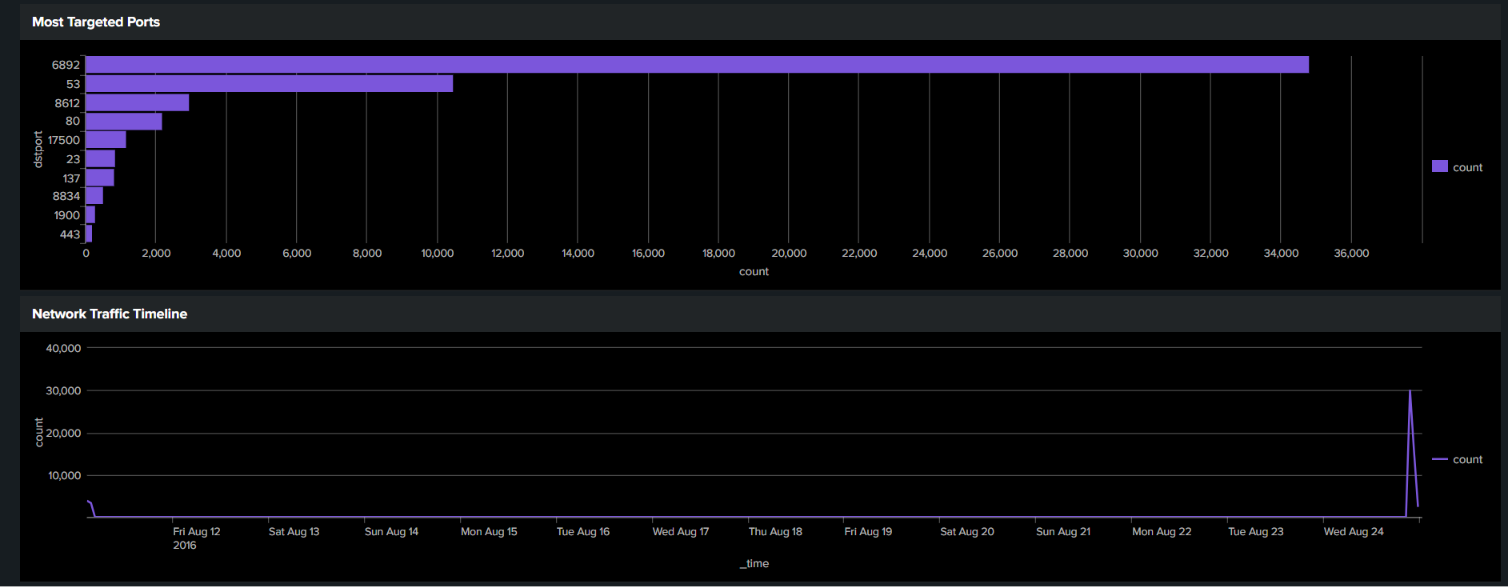
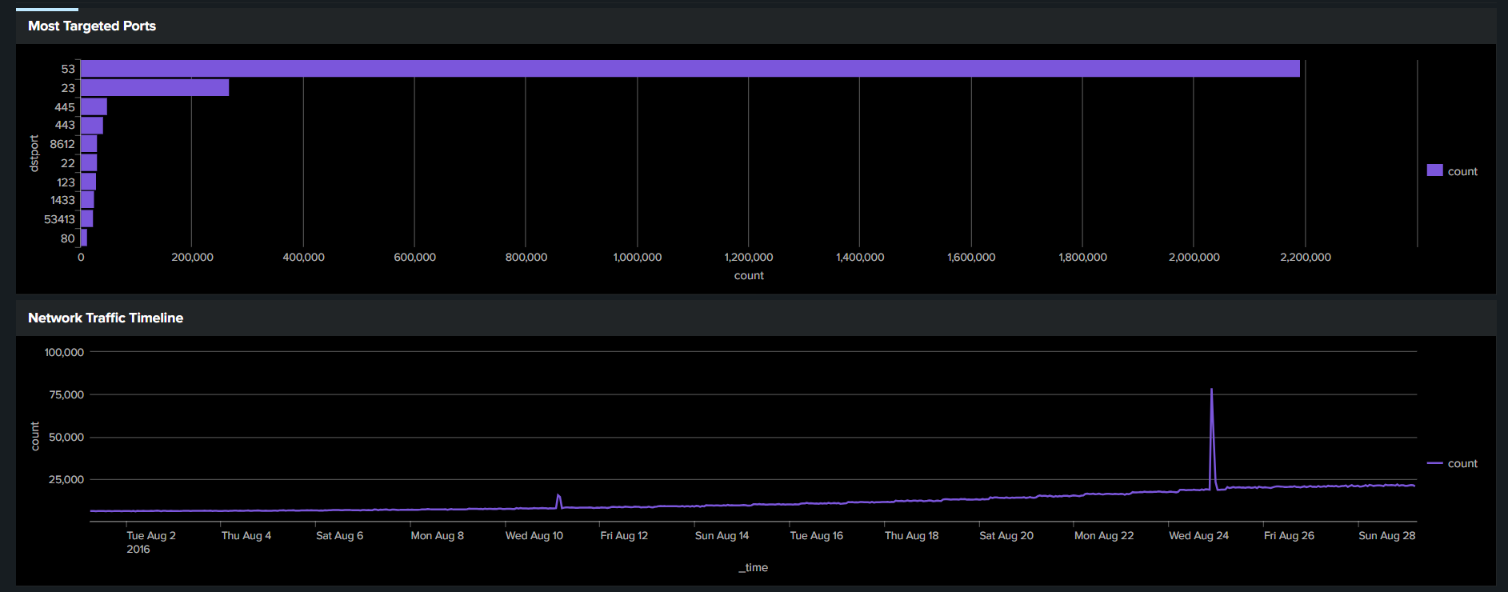
some addon on firewall writeup

diff --git a/Firewall-Monitoring/README.md b/Firewall-Monitoring/README.md
@@ -2,197 +2,233 @@
 
 ## Overview
 
-This investigation was conducted using Splunk Enterprise and the BOTS dataset to analyze Fortigate firewall traffic logs. The objective was to identify suspicious network behavior, targeted services, abnormal traffic patterns, and possible reconnaissance activity.
+This investigation was conducted using Splunk Enterprise with the BOTS dataset to monitor and analyze Fortigate firewall traffic logs. The objective was to identify suspicious network behavior, abnormal traffic spikes, targeted services, and potential reconnaissance activity within the environment.
 
 ---
 
 # Dashboard Overview
 
-
 ![Dashboard](Images/dashboard1.png)
 ![Dashboard](Images/dashboard2.png)
 ![Dashboard](Images/dashboard3.png)
+
+The dashboard provides visibility into:
+- Top source IP addresses
+- Most targeted destination ports
+- Traffic spikes over time
+- Geographic traffic distribution
+- Firewall traffic behavior analysis
 
 ---
 
 # Top Source IP Analysis
 
-![Top Source IPs](images/top-source-ips.png)
+![Top Source IPs](images/most-attempted-ip.png)
 
-The firewall traffic logs showed that the IP address `192.168.250.100` generated the highest amount of traffic with over 36,000 events.
+The firewall logs revealed that the IP address `192.168.225.111` generated the highest amount of traffic with approximately `32,480` events.
 
-Other highly active systems included:
-- 192.168.2.5
-- 192.168.69.104
-- 23.22.63.114
+Other highly active source IPs included:
+- `192.168.229.203`
+- `192.168.225.96`
 
 ## Findings
 
-- `192.168.250.100` appeared significantly more active than other hosts.
-- External IP address `23.22.63.114` communicated frequently with internal systems.
-- High traffic volume may indicate:
+- `192.168.225.111` produced significantly more firewall events than other systems.
+- The high event count may indicate:
   - automated activity
-  - scanning behavior
-  - centralized server communication
-  - suspicious network behavior requiring further investigation
+  - internal scanning behavior
+  - excessive service communication
+  - suspicious network activity
 
 ## Security Impact
 
-Unusually high traffic from a single source may indicate:
-- reconnaissance activity
+Large volumes of traffic from a single source may indicate:
+- reconnaissance behavior
 - malware communication
-- brute-force attempts
-- network scanning behavior
+- internal scanning
+- abnormal system activity
+
+Continuous monitoring of this host is recommended.
 
 ---
 
 # Investigation of High Traffic Source IP
 
-![High Traffic IP Investigation](images/high-traffic-ip-investigation.png)
+![High Traffic IP Investigation](images/Investigation-of-High-Traffic-Source-IP.png)
 
-The source IP address `192.168.250.100` generated the highest number of firewall events within the dataset.
+Further investigation of source IP `192.168.225.111` revealed detailed Fortigate firewall events associated with the host.
 
 ## Observed Activity
 
-- Multiple denied connections were detected.
-- Traffic targeted broadcast address `192.168.250.255`.
-- Ports `137` and `138` were frequently used.
-- The detected service was identified as `NetBIOS`.
+- Traffic originated from internal source IP `192.168.225.111`
+- Destination communication involved external IP addresses
+- The logs showed UDP traffic activity
+- The detected service was identified as `DNS`
+- Multiple traffic forwarding events were observed
 
 ## Analysis
 
-NetBIOS traffic is commonly associated with:
-- host discovery
-- file sharing
-- legacy Windows networking
+The firewall logs indicate the system was generating repeated DNS-related communication.
 
-The repeated denied traffic suggests the firewall successfully blocked suspicious or unauthorized communication attempts.
+Possible explanations include:
+- automated DNS requests
+- excessive network communication
+- beaconing behavior
+- malware-related DNS traffic
+- abnormal host activity
 
-The behavior may indicate:
-- internal reconnaissance activity
-- excessive broadcast traffic
-- automated network scanning behavior
+The unusually high number of firewall events generated by this host makes it suspicious compared to other systems in the environment.
 
 ## Security Impact
 
-Although the firewall denied the traffic, the unusually high event volume from a single internal source may warrant further monitoring and investigation.
+High-volume DNS traffic may indicate:
+- command-and-control communication
+- malware beaconing
+- automated scripts
+- suspicious background processes
+
+Further endpoint investigation is recommended to determine the root cause of the activity.
 
 ---
 
 # Most Targeted Ports Analysis
 
-![Most Targeted Ports](images/most-targeted-ports.png)
+![Most Targeted Ports](images/Most-Targeted-Ports.png)
 
-Analysis of destination ports identified several frequently targeted services within the network traffic logs.
+Analysis of destination ports identified several heavily targeted services within the firewall traffic logs.
 
 ## Observed Ports
 
 | Port | Service |
 |---|---|
-| 22 | SSH |
+| 53 | DNS |
 | 23 | Telnet |
-| 80 | HTTP |
-| 443 | HTTPS |
 | 445 | SMB |
-| 137/138 | NetBIOS |
+| 443 | HTTPS |
+| 8612 | Unknown / Custom Service |
 
 ## Findings
 
-- Port 23 (Telnet) generated a high number of events, which may indicate insecure remote access attempts or scanning behavior.
-- SSH traffic on port 22 was also observed, suggesting remote administration activity or possible brute-force targeting.
-- SMB traffic on port 445 may indicate Windows file-sharing communication or lateral movement attempts.
-- NetBIOS-related ports 137 and 138 showed repeated activity associated with internal network discovery traffic.
+- Port `53` (DNS) generated the highest number of events with over `2.2 million` connections.
+- Port `23` (Telnet) showed a significant number of connection attempts, which may indicate insecure remote-access activity or scanning behavior.
+- SMB traffic on port `445` may indicate Windows file-sharing communication or lateral movement attempts.
+- HTTPS traffic on port `443` indicates encrypted web communication activity.
 
 ## Security Impact
 
-The concentration of traffic on administrative and legacy service ports may indicate:
+Heavy targeting of administrative and network-related services may indicate:
 - reconnaissance activity
-- unauthorized scanning
-- remote access attempts
-- suspicious internal communication
+- automated scanning
+- suspicious communication
+- remote-access attempts
+- malware-related traffic
+
+The extremely high volume of DNS traffic should be investigated further.
 
 ---
 
 # Network Traffic Timeline
 
-![Traffic Timeline](images/traffic-timeline.png)
+![Traffic Timeline](images/Traffic-Timeline.png)
 
 The traffic timeline visualization identified fluctuations and spikes in firewall traffic volume over time.
 
 ## Findings
 
-- Multiple spikes in network traffic were observed.
-- Increased traffic volume may indicate scanning activity or periods of elevated network communication.
-- Monitoring traffic patterns helps identify anomalies and suspicious behavior.
+- A major traffic spike was observed on:
+  - `2016-08-24 21:30:00`
+- The spike generated approximately `78,542` events during the observed period.
+- Several smaller spikes were also identified throughout the dataset.
+
+## Analysis
+
+Traffic spikes may indicate:
+- scanning activity
+- malware communication bursts
+- automated scripts
+- unusual network behavior
+- large-scale service communication
+
+## Security Impact
+
+Sudden increases in network traffic may represent suspicious or unauthorized activity and should be correlated with endpoint and authentication logs for further investigation.
 
 ---
 
 # Traffic Source Countries
 
-![Traffic Source Countries](images/traffic-source-countries.png)
+![Traffic Source Countries](images/Traffic-Source-Countries.png)
 
-Analysis of traffic source countries identified external communication originating from multiple geographic regions.
+Geographic analysis was performed to identify the origin countries associated with firewall traffic events.
+
+## Top Countries Observed
+
+| Country | Event Count |
+|---|---|
+| Reserved | 6,262,121 |
+| China | 240,151 |
+| United States | 144,927 |
+| Vietnam | 120,571 |
+| Brazil | 107,575 |
 
 ## Findings
 
-- Traffic originated from several countries.
-- Foreign traffic sources may indicate external scanning or internet-facing communication attempts.
-- Geographic analysis assists in identifying unusual or suspicious access patterns.
-
----
-
-# Possible Port Scanning Activity
-
-![Possible Port Scanners](images/possible-port-scanners.png)
-
-The analysis identified network behavior consistent with possible port scanning and reconnaissance activity.
-
-## Observed Behavior
-
-- Multiple source IPs attempted communication across several destination ports.
-- Traffic targeted administrative and remote-access related services.
-- Several suspicious connections were denied by the firewall.
-
-## Analysis
-
-The behavior is consistent with reconnaissance or automated port scanning activity commonly performed before exploitation attempts.
-
-Port scanning is often used by attackers to:
-- identify exposed services
-- detect vulnerable systems
-- map internal networks
+- A large portion of traffic originated from `Reserved` address space, indicating internal or non-public network communication.
+- External traffic was observed from multiple countries including:
+  - China
+  - United States
+  - Vietnam
+  - Brazil
+  - Russian Federation
 
 ## Security Impact
 
-The firewall successfully blocked portions of the suspicious traffic; however, the scanning behavior indicates potential malicious probing activity within the network.
+Traffic from multiple geographic regions may indicate:
+- internet-facing communication
+- external scanning attempts
+- suspicious inbound activity
+- global probing behavior
+
+Geographic analysis helps identify unusual access patterns and potential threat sources.
 
 ---
 
-# Allowed vs Blocked Traffic
+# Firewall Traffic Behavior Analysis
 
-![Allowed vs Blocked Traffic](images/allowed-vs-blocked-traffic.png)
+The firewall logs revealed several indicators of potentially suspicious network behavior.
 
-The firewall logs showed both allowed and denied network traffic events.
+## Observed Behavior
 
-## Findings
+- High DNS traffic volume
+- Frequent Telnet-related communication
+- SMB traffic activity
+- Repeated firewall forwarding events
+- Abnormal traffic spikes
 
-- Multiple denied connections were detected.
-- Firewall filtering prevented potentially suspicious traffic from reaching internal systems.
-- Blocked traffic indicates active network defense mechanisms.
+## Analysis
+
+The observed behavior may indicate:
+- reconnaissance activity
+- automated network communication
+- insecure service usage
+- possible malware communication
+- excessive internal traffic generation
+
+The combination of DNS-heavy traffic and abnormal spikes warrants additional investigation.
 
 ---
 
 # Conclusion
 
-The investigation identified multiple indicators of suspicious network activity within the Fortigate firewall logs, including:
+The investigation identified multiple indicators of suspicious and abnormal network activity within the Fortigate firewall logs, including:
 
-- abnormal traffic volume
-- repeated denied connections
-- NetBIOS-related communication
-- Telnet and SSH targeting
-- potential reconnaissance behavior
-- possible port scanning activity
+- unusually high traffic from `192.168.225.111`
+- excessive DNS communication
+- Telnet-related traffic activity
+- SMB service communication
+- abnormal traffic spikes
+- external communication from multiple countries
 
-The firewall successfully blocked several suspicious connection attempts, demonstrating active traffic filtering and threat mitigation capabilities.
+The firewall successfully logged and monitored the suspicious traffic activity, providing visibility into network behavior and potential threats.
 
-Continuous monitoring and further investigation of high-volume hosts and targeted services is recommended to reduce the risk of unauthorized access and network compromise.
+Further investigation of high-volume hosts, DNS activity, and Telnet communication is recommended to reduce the risk of unauthorized access, malware activity, or network compromise.